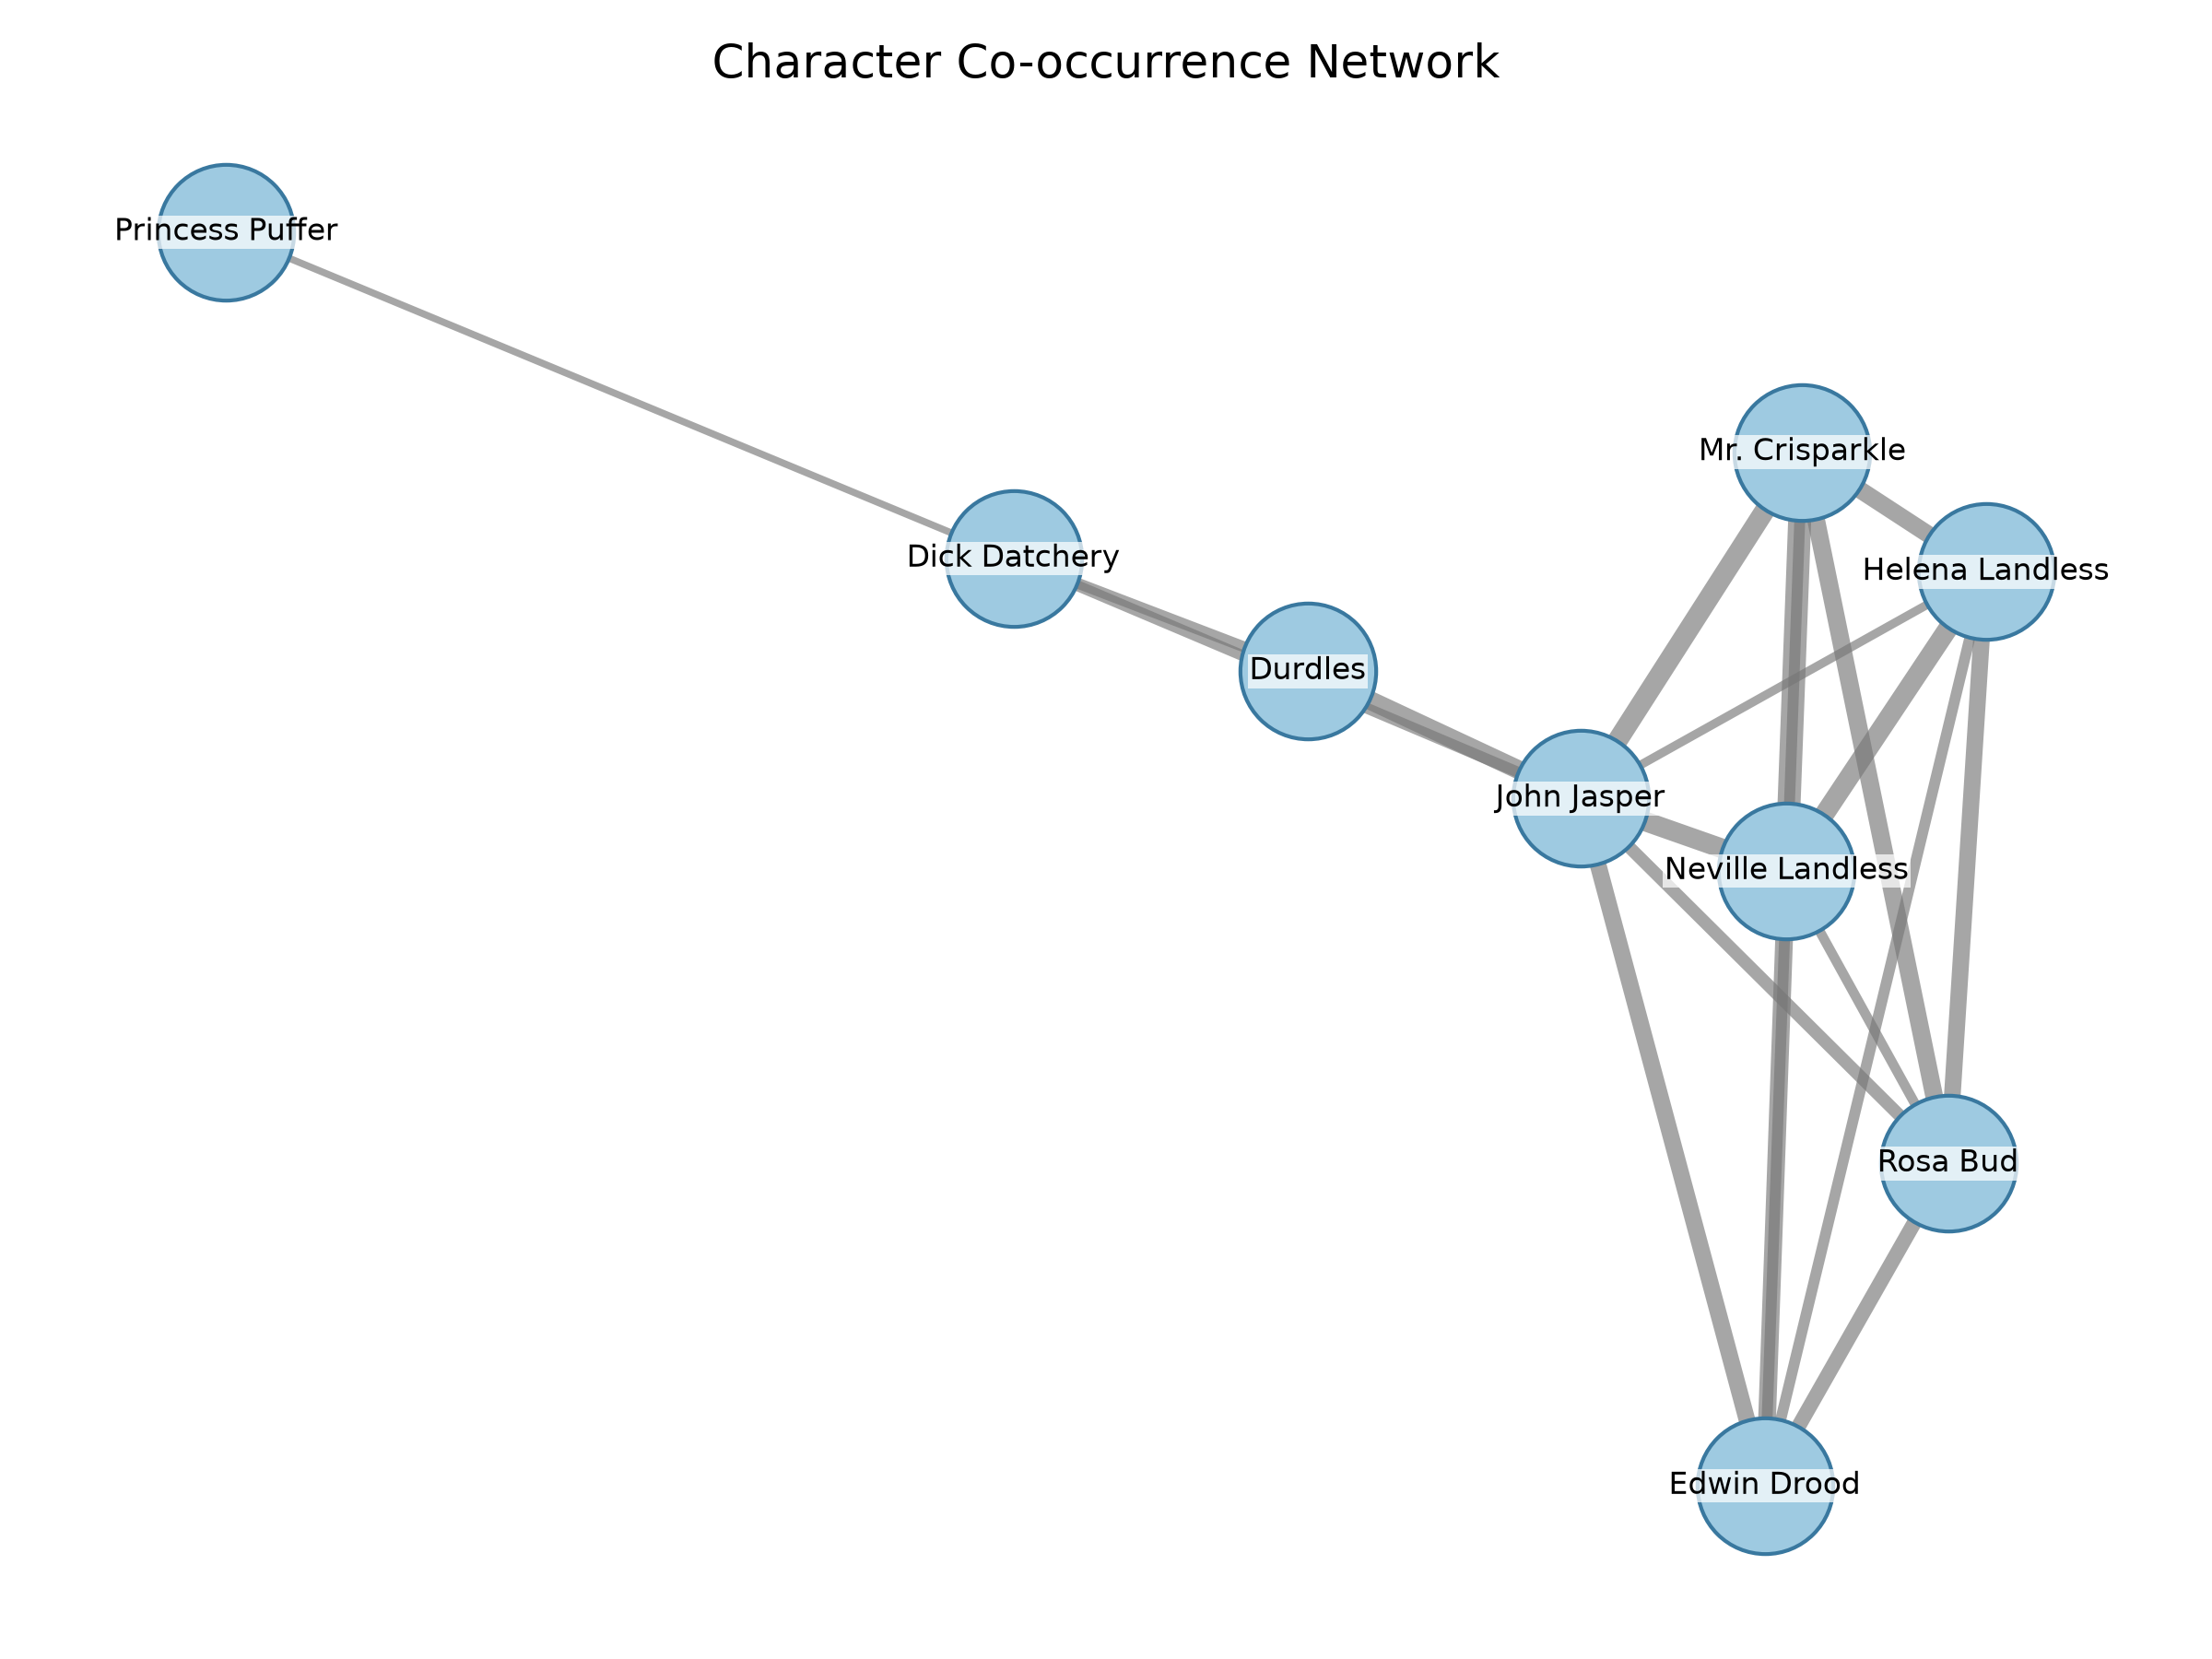
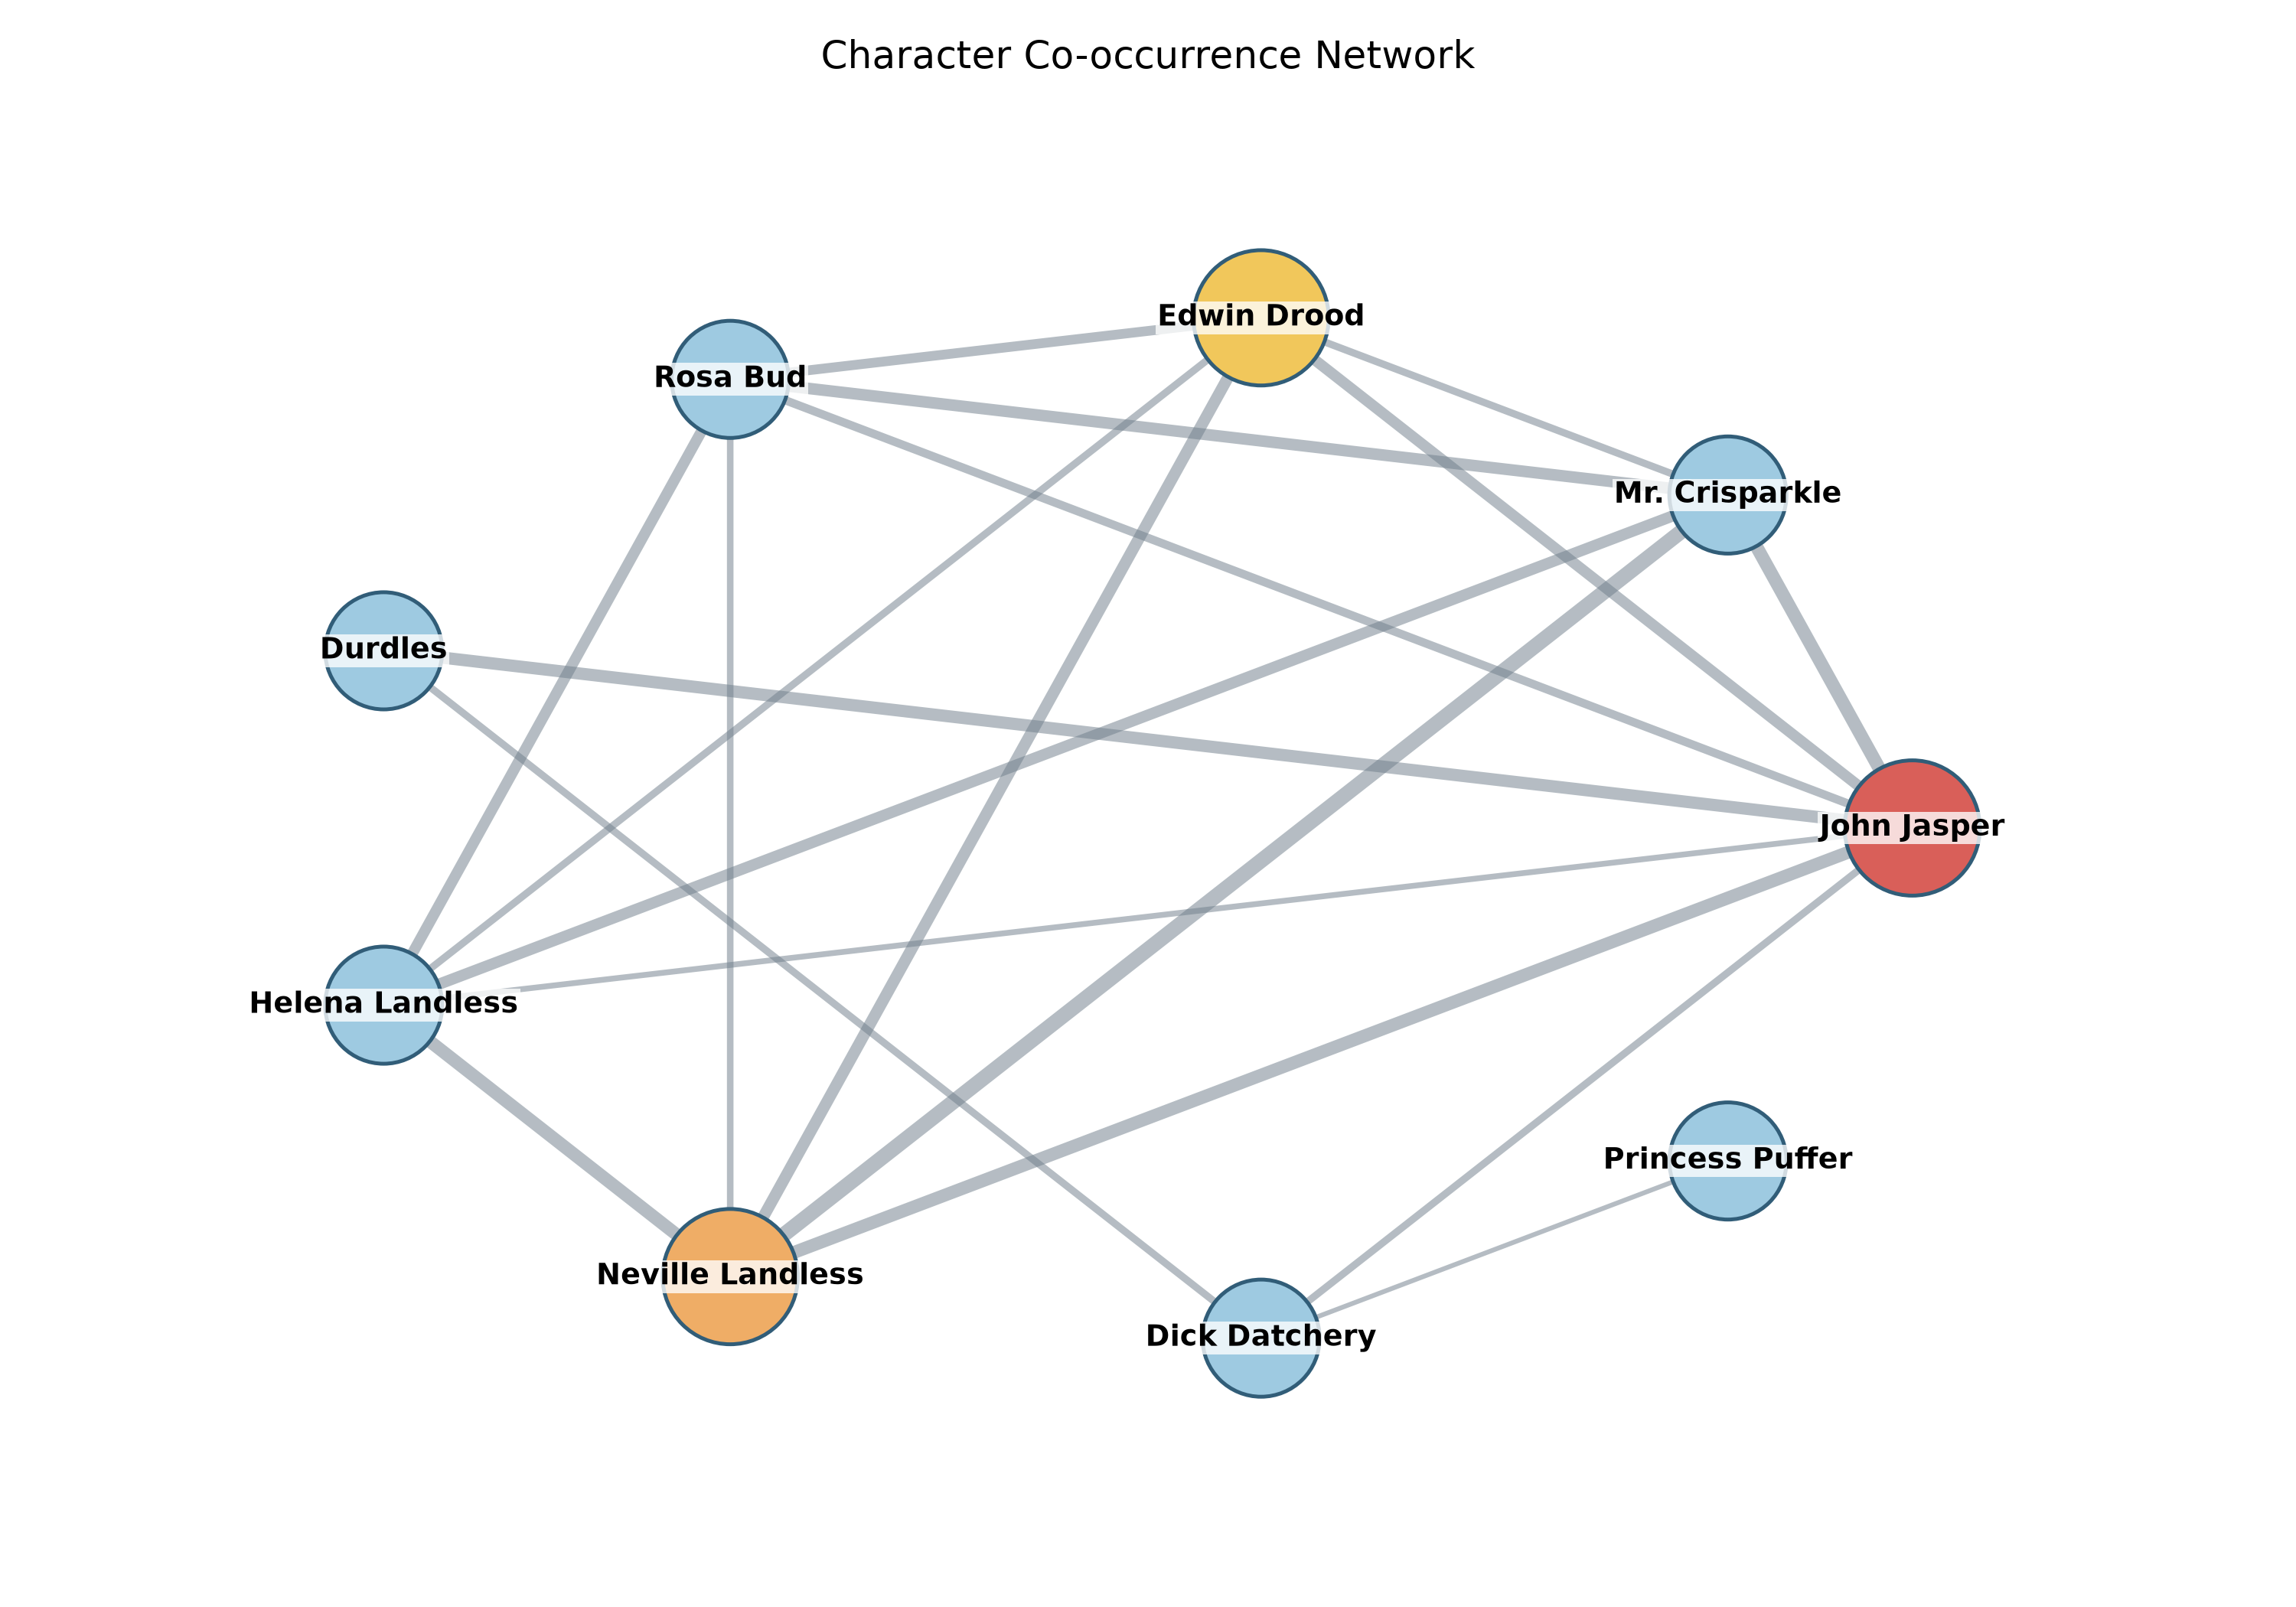
Refine report layout and visualizations

diff --git a/nlp_ass5/drood.py b/nlp_ass5/drood.py
@@ -284,7 +284,7 @@ def extract_clues(df: pd.DataFrame, top_n: int = 12) -> pd.DataFrame:
         ("dreadful suspicion of Jasper", "behavior_after_disappearance", "John Jasper; Rosa Bud", "The narration explicitly records Rosa's suspicion of Jasper and connects it with his obsessive inquiry and torn, muddy clothes."),
         ("determined reticence of Jasper", "behavior_after_disappearance", "John Jasper; Mr. Crisparkle", "Jasper becomes isolated, secretive, and fixed on one purpose after the disappearance."),
         ("convinced of Neville’s innocence", "Neville_as_false_suspect", "Neville Landless; Mr. Crisparkle", "Crisparkle believes Neville innocent even while acknowledging that circumstantial evidence makes him look guilty."),
-        ("traces of blood on him", "Neville_as_false_suspect", "Neville Landless", "The case against Neville is conspicuous circumstantial evidence—threat, weapon, departure, and blood—which fits an intentionally obvious suspect."),
+        ("traces of blood on him", "Neville_as_false_suspect", "Neville Landless", "The case against Neville is conspicuous circumstantial evidence: threat, weapon, departure, and blood. This fits an intentionally obvious suspect."),
         ("young gentleman’s name", "survival_and_disguise", "Dick Datchery; Edwin Drood; Princess Puffer", "Datchery reacts strongly while investigating Edwin's Christmas Eve movements, supporting a concealed-investigator or disguise theory, though not proving Edwin survived."),
     ]
     selected = []
@@ -361,23 +361,69 @@ def make_visuals(freq: pd.DataFrame, by_chapter: pd.DataFrame, cooc: pd.DataFram
     ax.set_xlabel("Suspect"); ax.set_ylabel("Weighted score (0–100 total)")
     ax.legend(["Motive (25)", "Opportunity (30)", "Suspicious language (30)", "Narrative relevance (15)"], fontsize=8)
     fig.tight_layout(); fig.savefig(FIGURES / "drood_suspect_scores.png", dpi=300); plt.close(fig)
+
+    score_order = ["Neville Landless", "John Jasper", "Rosa Bud", "Mr. Crisparkle", "Helena Landless", "Durdles", "Dick Datchery", "Princess Puffer"]
+    short_names = ["Neville", "Jasper", "Rosa", "Crisparkle", "Helena", "Durdles", "Datchery", "Puffer"]
+    score_rows = [
+        ("Motive (25)", "motive_score"),
+        ("Opportunity (30)", "opportunity_score"),
+        ("Suspicious language (30)", "suspicious_language_score"),
+        ("Narrative relevance (15)", "narrative_relevance_score"),
+        ("Total (100)", "suspicion_score"),
+    ]
+    score_lookup = suspects.set_index("suspect").reindex(score_order)
+    cell_text = [[f"{score_lookup.loc[name, column]:.1f}" for name in score_order] for _, column in score_rows]
+    fig, ax = plt.subplots(figsize=(13, 3.4))
+    ax.axis("off")
+    table = ax.table(
+        cellText=cell_text,
+        rowLabels=[label for label, _ in score_rows],
+        colLabels=short_names,
+        cellLoc="center",
+        rowLoc="left",
+        loc="center",
+        bbox=[0.15, 0.02, 0.84, 0.92],
+    )
+    table.auto_set_font_size(False)
+    table.set_fontsize(9)
+    for (row, column), cell in table.get_celld().items():
+        cell.set_edgecolor("#9bb4c7")
+        cell.set_linewidth(0.8)
+        if row == 0:
+            cell.set_facecolor("#244f70")
+            cell.get_text().set_color("white")
+            cell.get_text().set_weight("bold")
+        elif row == len(score_rows):
+            cell.set_facecolor("#dce9f2")
+            cell.get_text().set_weight("bold")
+        elif row % 2 == 0:
+            cell.set_facecolor("#f2f6f9")
+        if column == -1:
+            cell.set_facecolor("#e7eff5" if row != len(score_rows) else "#cbdde9")
+            cell.get_text().set_weight("bold")
+    fig.suptitle("Suspect Scores by Evidence Component", fontsize=13, fontweight="bold", color="#18354f", y=0.99)
+    fig.savefig(FIGURES / "drood_suspect_score_table.png", dpi=300, bbox_inches="tight", facecolor="white")
+    plt.close(fig)
     save_bar(sentiment, "character", "suspicious_rate", "Suspicious Language Rate Around Characters", FIGURES / "drood_suspicious_language.png")
 
     if not cooc.empty:
         graph = nx.Graph()
         for _, row in cooc.iterrows():
             graph.add_edge(row["character_a"], row["character_b"], weight=row["weight"])
-        fig, ax = plt.subplots(figsize=(8, 6))
-        pos = nx.spring_layout(graph, seed=7, k=1.35, iterations=200)
+        fig, ax = plt.subplots(figsize=(10, 7))
+        pos = nx.circular_layout(graph, scale=1.0)
         raw_weights = [graph[u][v]["weight"] for u, v in graph.edges]
         max_weight = max(raw_weights, default=1)
-        weights = [0.8 + 5.2 * math.sqrt(weight / max_weight) for weight in raw_weights]
-        nx.draw_networkx_nodes(graph, pos=pos, ax=ax, node_color="#9ecae1", node_size=1250, edgecolors="#39789f")
-        nx.draw_networkx_edges(graph, pos=pos, ax=ax, width=weights, edge_color="#777", alpha=0.65)
-        nx.draw_networkx_labels(graph, pos=pos, ax=ax, font_size=8, bbox={"facecolor": "white", "edgecolor": "none", "alpha": 0.72, "pad": 0.4})
+        weights = [0.7 + 4.0 * math.sqrt(weight / max_weight) for weight in raw_weights]
+        node_colors = ["#d95f59" if name == "John Jasper" else "#f1c75b" if name == "Edwin Drood" else "#efad66" if name == "Neville Landless" else "#9ecae1" for name in graph.nodes]
+        node_sizes = [1800 if name in {"John Jasper", "Edwin Drood", "Neville Landless"} else 1350 for name in graph.nodes]
+        nx.draw_networkx_edges(graph, pos=pos, ax=ax, width=weights, edge_color="#71808c", alpha=0.52)
+        nx.draw_networkx_nodes(graph, pos=pos, ax=ax, node_color=node_colors, node_size=node_sizes, edgecolors="#315d78", linewidths=1.2)
+        nx.draw_networkx_labels(graph, pos=pos, ax=ax, font_size=9, font_weight="bold", bbox={"facecolor": "white", "edgecolor": "none", "alpha": 0.78, "pad": 0.5})
         ax.set_title("Character Co-occurrence Network")
+        ax.margins(0.16)
         ax.axis("off")
-        fig.tight_layout()
+        fig.tight_layout(pad=1.2)
         fig.savefig(FIGURES / "drood_cooccurrence_network.png", dpi=300)
         plt.close(fig)
 

diff --git a/nlp_ass5/ufo.py b/nlp_ass5/ufo.py
@@ -1,5 +1,6 @@
 from __future__ import annotations
 
+import json
 import math
 import os
 import re
@@ -13,6 +14,7 @@ from pathlib import Path
 import numpy as np
 import pandas as pd
 import matplotlib.pyplot as plt
+from matplotlib.patches import Polygon as MapPolygon
 
 from .common import DATA_PROCESSED, DATA_RAW, FIGURES, REPORTS, STOPWORDS, clean_text, ensure_dirs, save_bar, tokenize, top_terms
 from .manual_docs import compact_name
@@ -718,7 +720,35 @@ def write_offline_geo_map(df: pd.DataFrame, path: Path = FIGURES / "ufo_geograph
     ]
     world = sample[~sample.index.isin(us.index)]
 
-    fig, axes = plt.subplots(1, 2, figsize=(13, 5.5))
+    boundary_path = DATA_RAW.parents[1] / "data" / "reference" / "natural_earth_admin0_countries.geojson"
+    boundary_features = []
+    if boundary_path.exists():
+        boundary_features = json.loads(boundary_path.read_text(encoding="utf-8"))["features"]
+
+    def polygon_rings(feature: dict) -> list[list[list[float]]]:
+        geometry = feature.get("geometry") or {}
+        coordinates = geometry.get("coordinates") or []
+        if geometry.get("type") == "Polygon":
+            return coordinates[:1]
+        if geometry.get("type") == "MultiPolygon":
+            return [polygon[0] for polygon in coordinates if polygon]
+        return []
+
+    def draw_land(ax, features: list[dict], edge_color: str, line_width: float) -> None:
+        for feature in features:
+            for ring in polygon_rings(feature):
+                ax.add_patch(MapPolygon(ring, closed=True, facecolor="#f5f1e8", edgecolor=edge_color, linewidth=line_width, zorder=0))
+
+    usa_features = [
+        feature for feature in boundary_features
+        if feature.get("properties", {}).get("ADM0_A3") == "USA"
+        or feature.get("properties", {}).get("ADMIN") == "United States of America"
+    ]
+
+    fig, axes = plt.subplots(1, 2, figsize=(14, 5.8))
+    for ax in axes:
+        ax.set_facecolor("#eef6fa")
+    draw_land(axes[0], boundary_features, edge_color="#667784", line_width=0.35)
     axes[0].scatter(sample["longitude"], sample["latitude"], s=2, alpha=0.18, color="#2563eb")
     axes[0].set_title("Global UFO/UAP Report Coordinates")
     axes[0].set_xlim(-180, 180)
@@ -730,18 +760,19 @@ def write_offline_geo_map(df: pd.DataFrame, path: Path = FIGURES / "ufo_geograph
     if not world.empty:
         axes[0].scatter(world["longitude"], world["latitude"], s=4, alpha=0.25, color="#dc2626")
 
+    draw_land(axes[1], usa_features, edge_color="#334e5c", line_width=0.75)
     if not us.empty:
         axes[1].scatter(us["longitude"], us["latitude"], s=2, alpha=0.20, color="#047857")
-    axes[1].set_title("United States Detail")
-    axes[1].set_xlim(-126, -66)
-    axes[1].set_ylim(24, 50)
+    axes[1].set_title("United States Detail, Including Alaska and Hawaii")
+    axes[1].set_xlim(-170, -64)
+    axes[1].set_ylim(18, 72)
     axes[1].set_xlabel("Longitude")
     axes[1].set_ylabel("Latitude")
     axes[1].grid(True, linewidth=0.3, alpha=0.35)
 
     fig.suptitle("Offline Geographic View of Kaggle UFO Reports", y=0.98)
     fig.tight_layout()
-    fig.savefig(path, dpi=300)
+    fig.savefig(path, dpi=300, facecolor="white")
     plt.close(fig)
 
 

diff --git a/scripts/render_submission_reports.py b/scripts/render_submission_reports.py
@@ -18,6 +18,7 @@ REPORTS = ("ufo_submission_report", "drood_submission_report")
 
 
 def inline_markup(value: str) -> str:
+    value = value.replace(chr(8212), ", ")
     value = html.escape(value)
     value = re.sub(r"\*\*(.+?)\*\*", r"<strong>\1</strong>", value)
     value = re.sub(r"\*(.+?)\*", r"<em>\1</em>", value)
@@ -48,7 +49,11 @@ def markdown_to_html(source: str, asset_dir: Path) -> str:
                 in_list = False
         elif line.startswith("## "):
             flush_paragraph()
-            blocks.append(f"<h2>{inline_markup(line[3:])}</h2>")
+            blocks.append(
+                '<div class="section-heading" style="width:100%; clear:both; display:block; text-align:left; '
+                'margin:14px 0 6px; padding-bottom:3px; border-bottom:1px solid #9bb4c7;">'
+                f'<span style="font-size:16px; font-weight:bold; color:#245678;">{inline_markup(line[3:])}</span></div>'
+            )
         elif line.startswith("# "):
             flush_paragraph()
             blocks.append(f"<h1>{inline_markup(line[2:])}</h1>")
@@ -59,8 +64,8 @@ def markdown_to_html(source: str, asset_dir: Path) -> str:
                 pixel_width, pixel_height = figure.size
             display_width = 624
             display_height = round(display_width * pixel_height / pixel_width)
-            if display_height > 230:
-                display_height = 230
+            if display_height > 260:
+                display_height = 260
                 display_width = round(display_height * pixel_width / pixel_height)
             blocks.append(
                 f'<div class="chart"><img src="{source_image.as_uri()}" width="{display_width}" height="{display_height}" '
@@ -110,11 +115,13 @@ def render(name: str, soffice: str) -> None:
 <html><head><meta charset="utf-8"><style>
 @page {{ size: A4; margin: 13mm 15mm; }}
 html, body {{ direction: ltr; }}
-body {{ font-family: Arial, sans-serif; font-size: 9.2pt; line-height: 1.14;
+body {{ font-family: Arial, sans-serif; font-size: 9pt; line-height: 1.12;
         color: #20242a; max-width: 180mm; margin: auto; text-align: left; }}
 h1 {{ font-size: 18pt; color: #18354f; margin: 0 0 5mm; clear: both; display: block; text-align: left; }}
 h2 {{ font-size: 12.5pt; color: #245678; margin: 4mm 0 1.5mm;
       border-bottom: 0.4pt solid #9bb4c7; clear: both; display: block; text-align: left; }}
+.section-heading {{ width: 100%; margin: 4mm 0 1.5mm; padding: 0 0 1mm; border-bottom: 0.4pt solid #9bb4c7; clear: both; display: block; text-align: left; }}
+.section-heading span {{ font-family: Arial, sans-serif; font-size: 12.5pt; font-weight: bold; color: #245678; }}
 p {{ margin: 0 0 2.2mm; text-align: left; clear: both; }}
 ol {{ margin: 0 0 2mm 6mm; padding-left: 4mm; }}
 li {{ margin-bottom: 1mm; }}

diff --git a/outputs/reports/drood_submission_report.md b/outputs/reports/drood_submission_report.md
@@ -6,19 +6,11 @@ The Project Gutenberg text was stripped of boilerplate and divided into 23 chapt
 
 Suspects were scored on four normalized components: motive (25 points), opportunity (30), suspicious language (30), and semantic narrative relevance (15). Sentence embeddings retrieved clue candidates for motive, means, opium/double life, behavior after the disappearance, survival/disguise, and the Neville false-suspect theory. TF-IDF/K-means clustered scenes, and twelve final passages were audited against the source text.
 
-![Suspect score components](../figures/drood_suspect_scores.png)
-
 ## Suspects and clues
 
-| Score component | Neville | Jasper | Rosa | Crisparkle | Helena | Durdles | Datchery | Puffer |
-|---|---:|---:|---:|---:|---:|---:|---:|---:|
-| Motive (25) | 21.0 | 10.9 | 17.9 | 9.8 | 12.6 | 3.1 | 3.5 | 0.0 |
-| Opportunity (30) | 27.9 | 28.7 | 21.5 | 15.7 | 12.5 | 1.0 | 0.0 | 0.0 |
-| Suspicious language (30) | 24.2 | 28.0 | 18.5 | 23.1 | 22.3 | 24.9 | 19.5 | 0.0 |
-| Narrative relevance (15) | 13.2 | 14.9 | 15.0 | 13.0 | 10.0 | 9.4 | 7.2 | 0.0 |
-| **Total (100)** | **86.3** | **82.5** | **73.0** | **61.7** | **57.3** | **38.5** | **30.2** | **0.0** |
+![Suspect score breakdown](../figures/drood_suspect_score_table.png)
 
-**Interpretive finding: John Jasper—not Neville Landless—is the primary suspect.** The 3.9-point numerical gap is small, and Jasper leads Neville in opportunity, suspicious language, and narrative relevance. Neville wins the total only because the novel surrounds its conspicuous suspect with unusually explicit jealousy and conflict vocabulary. Jasper's evidence is less overt but forms a stronger cross-scene sequence of motive, preparation, possible means, concealment, and behavior after Edwin disappears.
+**Interpretive finding: John Jasper, not Neville Landless, is the primary suspect.** The 3.9-point numerical gap is small, and Jasper leads Neville in opportunity, suspicious language, and narrative relevance. Neville wins the total only because the novel surrounds its conspicuous suspect with unusually explicit jealousy and conflict vocabulary. Jasper's evidence is less overt but forms a stronger cross-scene sequence of motive, preparation, possible means, concealment, and behavior after Edwin disappears.
 
 The audited clue chain supporting **Jasper** is:
 
@@ -44,6 +36,8 @@ In *Drood*, crime language rises from 0.101 per 1,000 words in the opening third
 These patterns do not prove a solution, but they support two inferences: Neville's overt guilt signals may be misdirection, and the late identity/disguise increase leaves room for Edwin's survival or a Datchery-centered revelation.
 
 ![Motif comparison](../figures/drood_dickens_motifs.png)
+
+![Suspect score components](../figures/drood_suspect_scores.png)
 
 ## Conclusion
 

diff --git a/data/reference/README.md b/data/reference/README.md
@@ -1,0 +1,8 @@
+# Geographic Boundary Reference
+
+`natural_earth_admin0_countries.geojson` is the Natural Earth 1:110m Admin 0 Countries dataset. It is stored locally so the static UFO/UAP map can draw world and United States outlines without an internet connection.
+
+- Source: Natural Earth Vector, version 5.1.1
+- Project page: https://www.naturalearthdata.com/downloads/110m-cultural-vectors/110m-admin-0-countries/
+- Repository source: https://github.com/nvkelso/natural-earth-vector
+- License: public domain

diff --git a/outputs/reports/drood_report.md b/outputs/reports/drood_report.md
@@ -22,7 +22,7 @@ Candidates were retrieved with sentence embeddings, organized with TF-IDF/K-mean
 |   chapter | quote                                                                                                                                                                                                                                                                                                                                                                                                                                                                                                                                                                                                                                                                                                                        | characters_involved                         | why_important                                                                                                                                                            | supports_suspect               |
 |----------:|:-----------------------------------------------------------------------------------------------------------------------------------------------------------------------------------------------------------------------------------------------------------------------------------------------------------------------------------------------------------------------------------------------------------------------------------------------------------------------------------------------------------------------------------------------------------------------------------------------------------------------------------------------------------------------------------------------------------------------------|:--------------------------------------------|:-------------------------------------------------------------------------------------------------------------------------------------------------------------------------|:-------------------------------|
 |         1 | Then he comes back, pounces on the Chinaman, and seizing him with both hands by the throat, turns him violently on the bed. The Chinaman clutches the aggressive hands, resists, gasps, and protests.                                                                                                                                                                                                                                                                                                                                                                                                                                                                                                                        | John Jasper                                 | The unnamed opium dreamer later identified as Jasper acts out strangulation, linking his hidden life to a possible method.                                               | John Jasper                    |
-|         2 | “I have been taking opium for a pain—an agony—that sometimes overcomes me. The effects of the medicine steal over me like a blight or a cloud, and pass. You see them in the act of passing; they will be gone directly. They will go all the sooner.”                                                                                                                                                                                                                                                                                                                                                                                                                                                                       | John Jasper                                 | Jasper admits secret opium use, establishing the double life introduced in the opening scene.                                                                            | John Jasper                    |
+|         2 | “I have been taking opium for a pain, an agony, that sometimes overcomes me. The effects of the medicine steal over me like a blight or a cloud, and pass. You see them in the act of passing; they will be gone directly. They will go all the sooner.”                                                                                                                                                                                                                                                                                                                                                                                                                                                                       | John Jasper                                 | Jasper admits secret opium use, establishing the double life introduced in the opening scene.                                                                            | John Jasper                    |
 |        12 | Once again, an unaccountable expedition this! Jasper (always moving softly with no visible reason) contemplates the scene, and especially that stillest part of it which the Cathedral overshadows. But he contemplates Durdles quite as curiously, and Durdles is by times conscious of his watchful eyes.                                                                                                                                                                                                                                                                                                                                                                                                                  | John Jasper; Durdles                        | Jasper secretly explores the cathedral and crypt with Durdles before Edwin disappears.                                                                                   | John Jasper                    |
 |        12 | As Durdles recalls that touching something in his dream, he looks down on the pavement, and sees the key of the crypt door lying close to where he himself lay.                                                                                                                                                                                                                                                                                                                                                                                                                                                                                                                                                              | John Jasper; Durdles                        | While Durdles is drugged or deeply asleep, the crypt key lies loose and Jasper has unexplained time alone.                                                               | John Jasper                    |
 |        19 | “Rosa, even when my dear boy was affianced to you, I loved you madly; even when I thought his happiness in having you for his wife was certain, I loved you madly; even when I strove to make him more ardently devoted to you, I loved you madly; even when he gave me the picture of your lovely face so carelessly traduced by him, which I feigned to hang always in my sight for his sake, but worshipped in torment for years, I loved you madly; in the distasteful work of the day, in the wakeful misery of the night, girded by sordid realities, or wandering through Paradises and Hells of visions into which I rushed, carrying your image in my arms, I loved you madly.”                                     | John Jasper; Rosa Bud; Edwin Drood          | Jasper confesses obsessive love for Edwin's fiancée dating from before the disappearance, supplying a direct motive.                                                     | John Jasper                    |
@@ -31,7 +31,7 @@ Candidates were retrieved with sentence embeddings, organized with TF-IDF/K-mean
 |        23 | The dreadful suspicion of Jasper, which Rosa was so shocked to have received into her imagination, appeared to have no harbour in Mr. Crisparkle’s. If it ever haunted Helena’s thoughts or Neville’s, neither gave it one spoken word of utterance. Mr. Grewgious took no pains to conceal his implacable dislike of Jasper, yet he never referred it, however distantly, to such a source. But he was a reticent as well as an eccentric man; and he made no mention of a certain evening when he warmed his hands at the gatehouse fire, and looked steadily down upon a certain heap of torn and miry clothes upon the floor.                                                                                            | John Jasper; Rosa Bud                       | The narration explicitly records Rosa's suspicion of Jasper and connects it with his obsessive inquiry and torn, muddy clothes.                                          | John Jasper                    |
 |        23 | False pretence not being in the Minor Canon’s nature, he doubtless displayed openly that he would at any time have revived the subject, and even desired to discuss it. The determined reticence of Jasper, however, was not to be so approached. Impassive, moody, solitary, resolute, so concentrated on one idea, and on its attendant fixed purpose, that he would share it with no fellow-creature, he lived apart from human life. Constantly exercising an Art which brought him into mechanical harmony with others, and which could not have been pursued unless he and they had been in the nicest mechanical relations and unison, it is curious to consider that the spirit of the man was in moral accordance o | John Jasper; Mr. Crisparkle                 | Jasper becomes isolated, secretive, and fixed on one purpose after the disappearance.                                                                                    | John Jasper                    |
 |        16 | This fairness troubled the Minor Canon much. He felt that he was not as open in his own dealing. He charged against himself reproachfully that he had suppressed, so far, the two points of a second strong outbreak of temper against Edwin Drood on the part of Neville, and of the passion of jealousy having, to his own certain knowledge, flamed up in Neville’s breast against him. He was convinced of Neville’s innocence of any part in the ugly disappearance; and yet so many little circumstances combined so wofully against him, that he dreaded to add two more to their cumulative weight. He was among the truest of men; but he had been balancing in his mind, much to its distress, whether his volunte | Neville Landless; Mr. Crisparkle            | Crisparkle believes Neville innocent even while acknowledging that circumstantial evidence makes him look guilty.                                                        | Neville / false-suspect theory |
-|        16 | These dropping shots from the blunderbusses of blunderheadedness might not have hit him in a vital place. But he had to stand against a trained and well-directed fire of arms of precision too. He had notoriously threatened the lost young man, and had, according to the showing of his own faithful friend and tutor who strove so hard for him, a cause of bitter animosity (created by himself, and stated by himself), against that ill-starred fellow. He had armed himself with an offensive weapon for the fatal night, and he had gone off early in the morning, after making preparations for departure. He had been found with traces of blood on him; truly, they might have been wholly caused as he represe | Neville Landless                            | The case against Neville is conspicuous circumstantial evidence—threat, weapon, departure, and blood—which fits an intentionally obvious suspect.                        | Neville / false-suspect theory |
+|        16 | These dropping shots from the blunderbusses of blunderheadedness might not have hit him in a vital place. But he had to stand against a trained and well-directed fire of arms of precision too. He had notoriously threatened the lost young man, and had, according to the showing of his own faithful friend and tutor who strove so hard for him, a cause of bitter animosity (created by himself, and stated by himself), against that ill-starred fellow. He had armed himself with an offensive weapon for the fatal night, and he had gone off early in the morning, after making preparations for departure. He had been found with traces of blood on him; truly, they might have been wholly caused as he represe | Neville Landless                            | The case against Neville is conspicuous circumstantial evidence: threat, weapon, departure, and blood. This fits an intentionally obvious suspect.                        | Neville / false-suspect theory |
 |        23 | “And the young gentleman’s name,” she adds, “was Edwin.”                                                                                                                                                                                                                                                                                                                                                                                                                                                                                                                                                                                                                                                                     | Dick Datchery; Edwin Drood; Princess Puffer | Datchery reacts strongly while investigating Edwin's Christmas Eve movements, supporting a concealed-investigator or disguise theory, though not proving Edwin survived. | Survival / Datchery theory     |
 
 ## Dickens Comparison